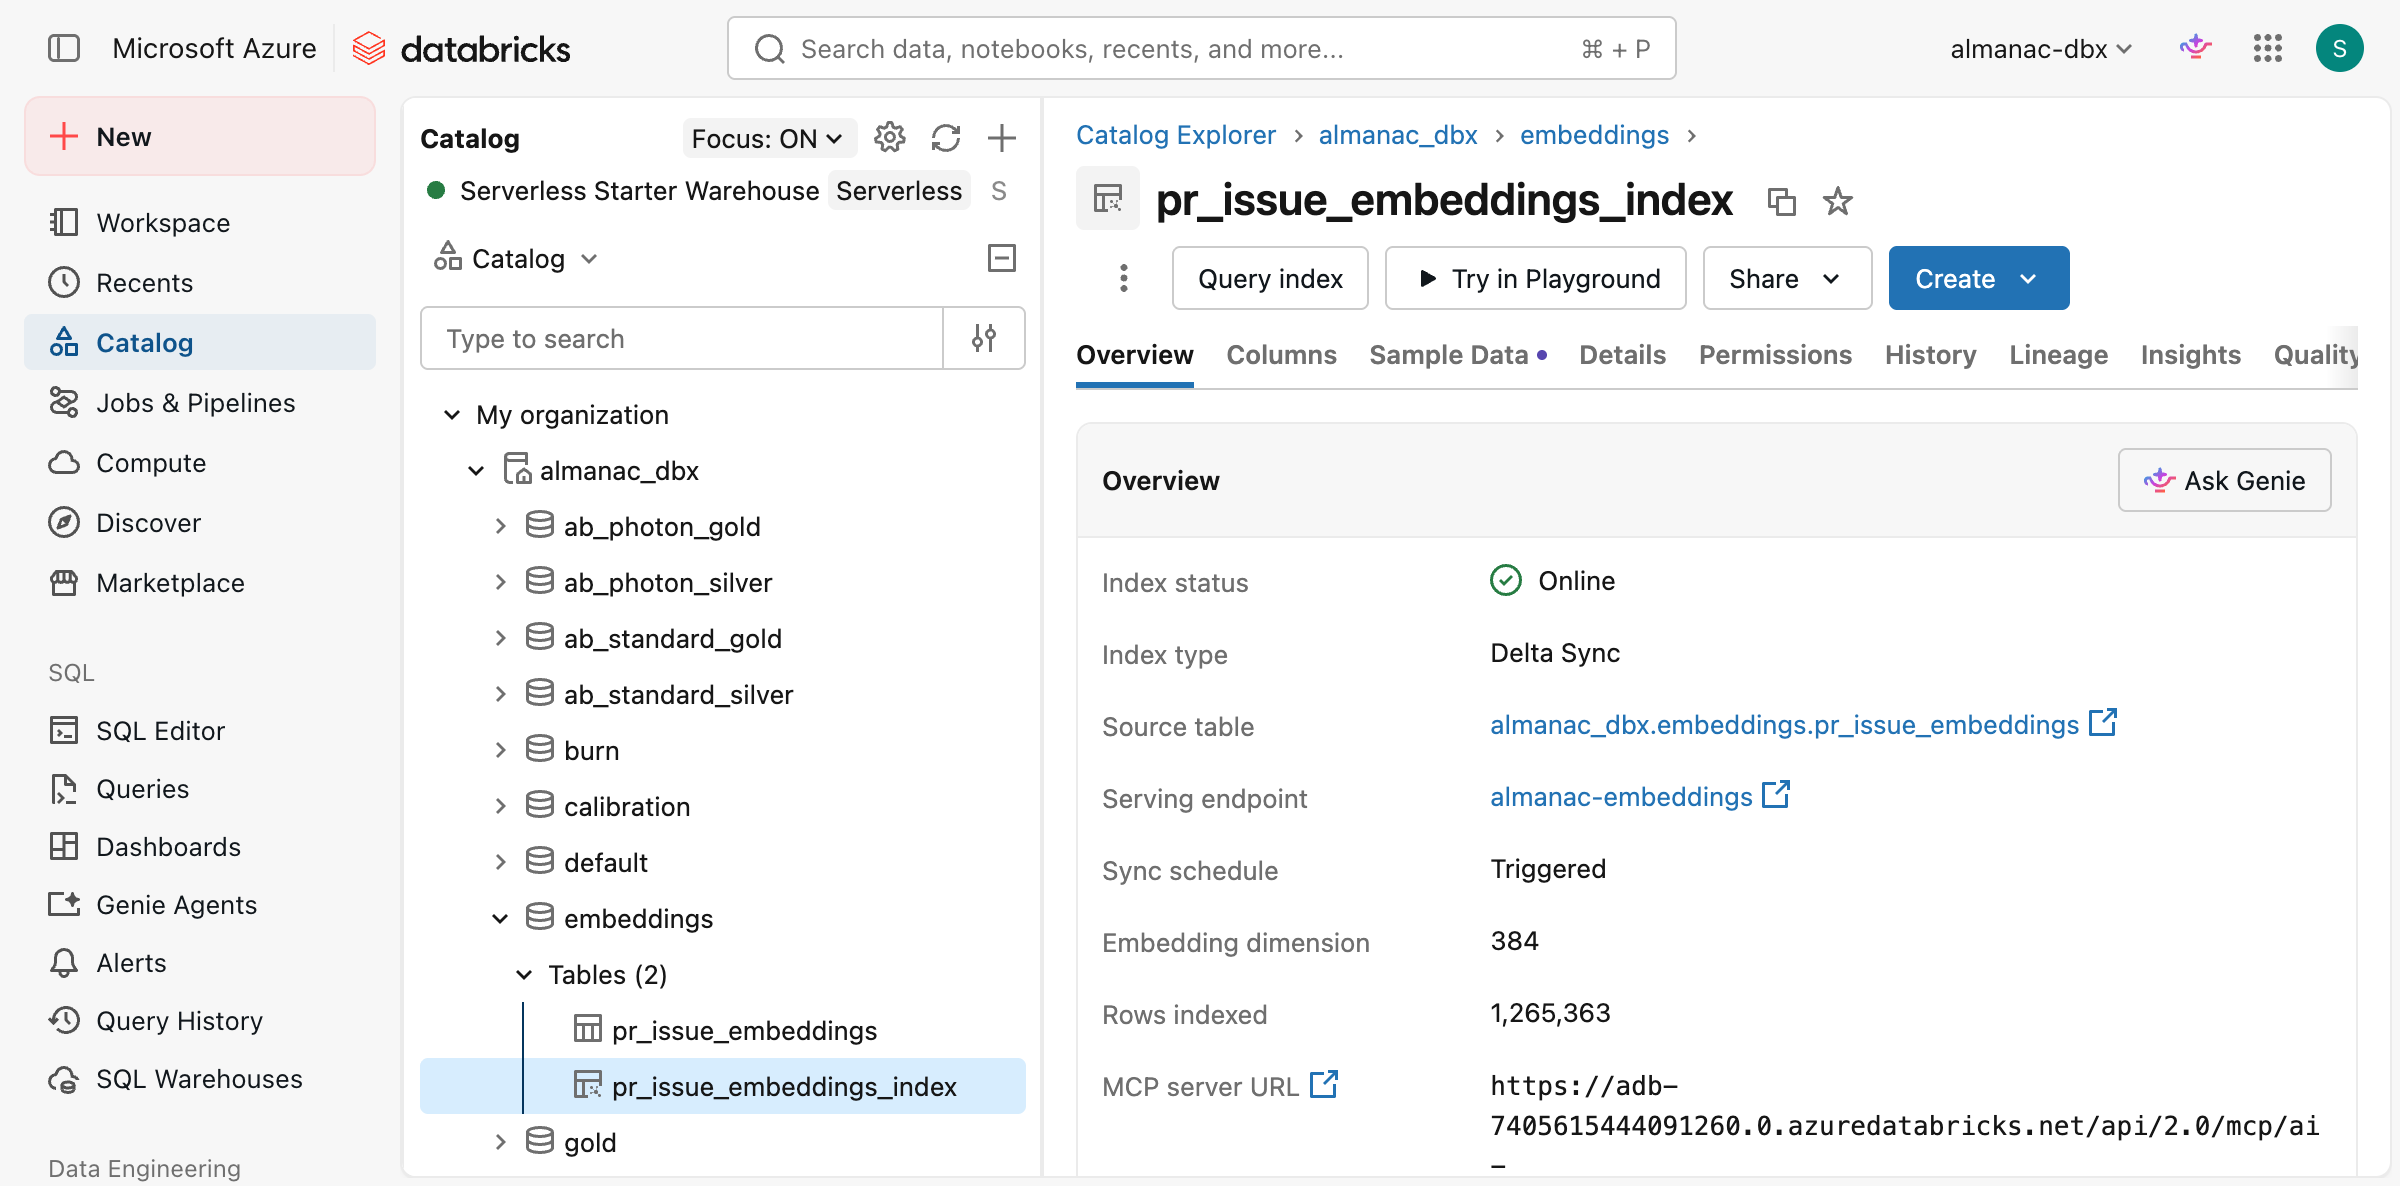
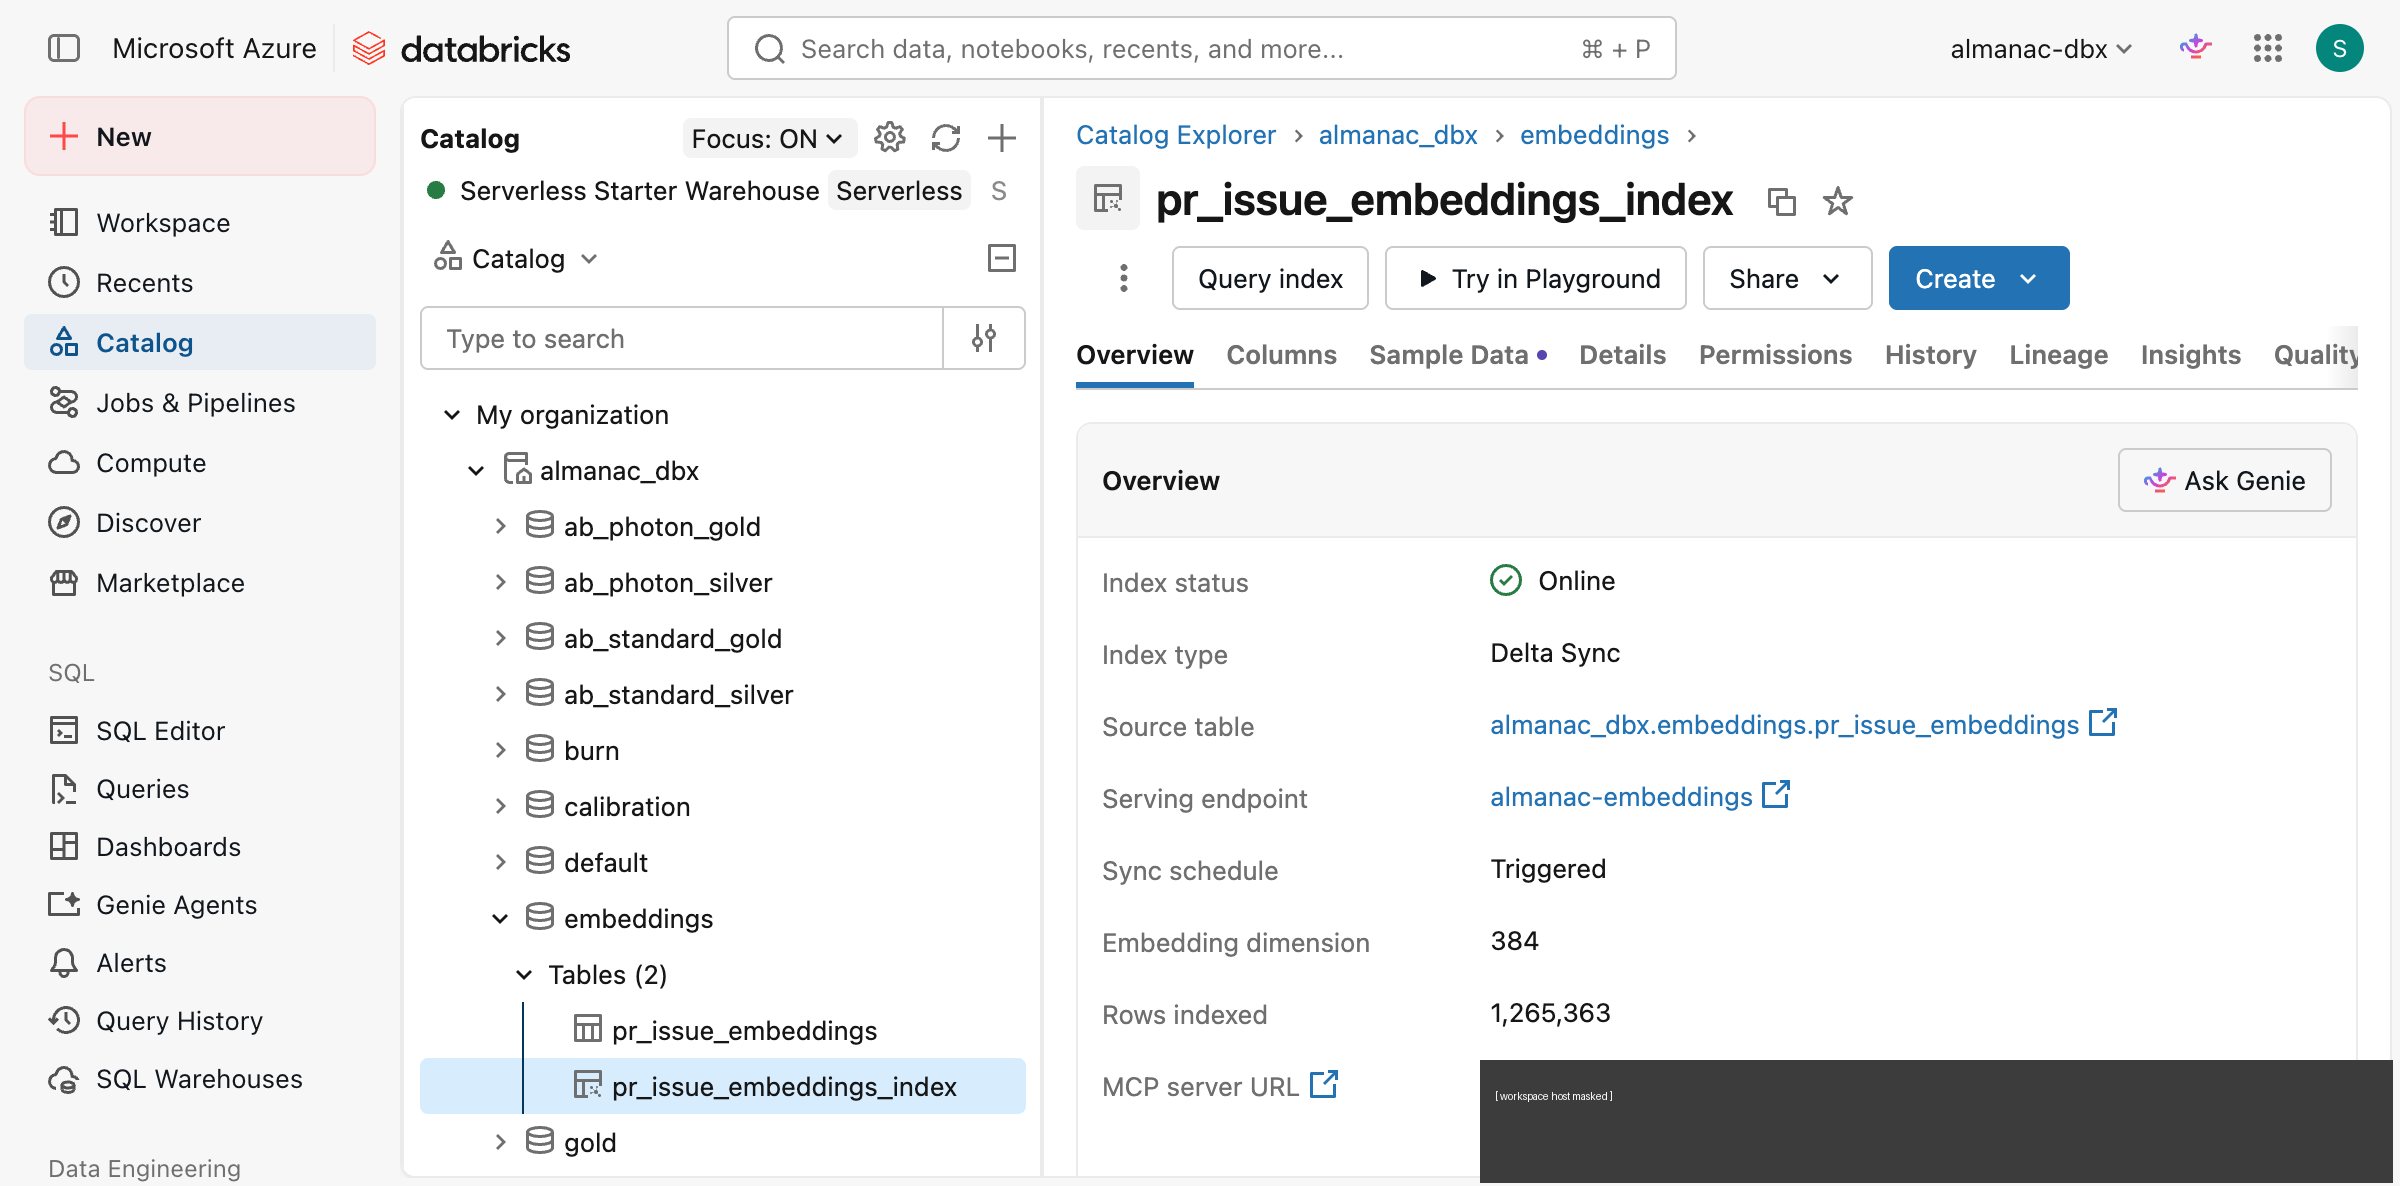
docs: replace the Databricks workspace host with a placeholder
The workspace host appeared in four findings docs, mostly in copy-pasteable DATABRICKS_HOST exports, and in the MCP server URL field of the index screenshot. It is written as <workspace>.azuredatabricks.net everywhere now, and masked in the image. The commands still read correctly, since the host was always something the reader would substitute anyway.

Nothing evidentiary was lost from the screenshot: the indexed row count, dimension, index type, sync schedule and status are all still visible.

Changed region(s): [[0.5938, 0.8735, 1.0, 0.9983]]

diff --git a/docs/findings/2026-09-06-vector-search-live-state-and-teardown.md b/docs/findings/2026-09-06-vector-search-live-state-and-teardown.md
@@ -55,8 +55,11 @@ this service and a long idle one is the worst.
 
 ![Vector Search endpoint, AI Search tab](../images/vector-search-endpoint.png)
 
-The Creator column is masked; every other identifying field in these two
-captures is an infrastructure name, not a person.
+Masked in these captures: the Creator column here, and the MCP server URL
+in the index capture below, which carried the workspace host. The
+workspace host is written as `<workspace>.azuredatabricks.net` throughout
+this repo for the same reason. Everything left visible is a resource
+name or a measured number.
 
 ```
 name                 almanac-embeddings
@@ -137,7 +140,7 @@ index sync.
 ## Recreate
 
 ```sh
-export DATABRICKS_HOST=https://adb-7405615444091260.0.azuredatabricks.net
+export DATABRICKS_HOST=https://<workspace>.azuredatabricks.net
 cd infra/terraform
 terraform apply -target=databricks_vector_search_endpoint.embeddings
 terraform apply -target=databricks_vector_search_index.pr_issue_embeddings

diff --git a/docs/findings/2026-09-04-serving-endpoint-measured.md b/docs/findings/2026-09-04-serving-endpoint-measured.md
@@ -7,7 +7,7 @@
 `default` candidate — `docs/findings/2026-09-04-classification-model-serving-measured.md`).
 `terraform apply -target=databricks_model_serving.pr_review_sla_risk`;
 20 real `POST` invocations against
-`https://adb-7405615444091260.0.azuredatabricks.net/serving-endpoints/almanac-pr-review-sla-risk/invocations`,
+`https://<workspace>.azuredatabricks.net/serving-endpoints/almanac-pr-review-sla-risk/invocations`,
 timed with `curl -w "%{time_total}"` (excludes CLI startup overhead —
 the first, CLI-based call is reported separately below and not mixed
 into the percentiles).

diff --git a/docs/findings/2026-09-05-embedding-worker-fork-deadlock.md b/docs/findings/2026-09-05-embedding-worker-fork-deadlock.md
@@ -184,7 +184,7 @@ WHERE event_date >= '2025-09-20'
 ## Re-run — the scoped run
 
 ```sh
-export DATABRICKS_HOST=https://adb-7405615444091260.0.azuredatabricks.net
+export DATABRICKS_HOST=https://<workspace>.azuredatabricks.net
 cd infra/terraform
 terraform apply -target=databricks_job.embeddings -var 'embeddings_since=2025-09-20'
 databricks jobs run-now 79790319052446 --no-wait

diff --git a/docs/findings/2026-09-06-similarity-real-run.md b/docs/findings/2026-09-06-similarity-real-run.md
@@ -182,7 +182,7 @@ bad rate.
 ## Re-run
 
 ```sh
-export DATABRICKS_HOST=https://adb-7405615444091260.0.azuredatabricks.net
+export DATABRICKS_HOST=https://<workspace>.azuredatabricks.net
 cd infra/terraform && terraform apply -target=databricks_job.pr_similarity
 databricks jobs run-now 518991216623709 --no-wait
 # then similarity_comparison once pr_similarity's table exists
